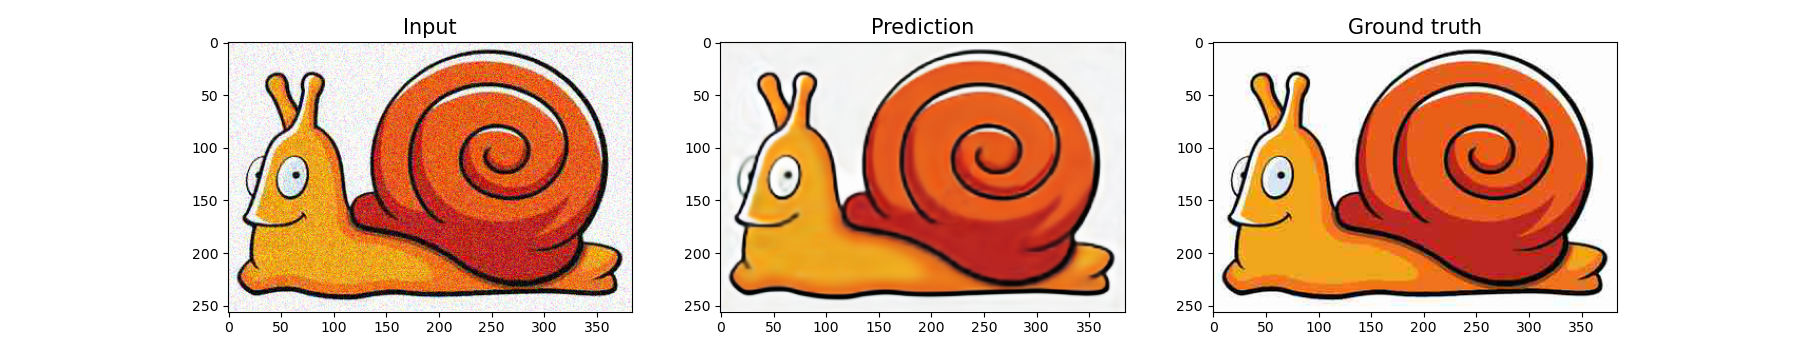
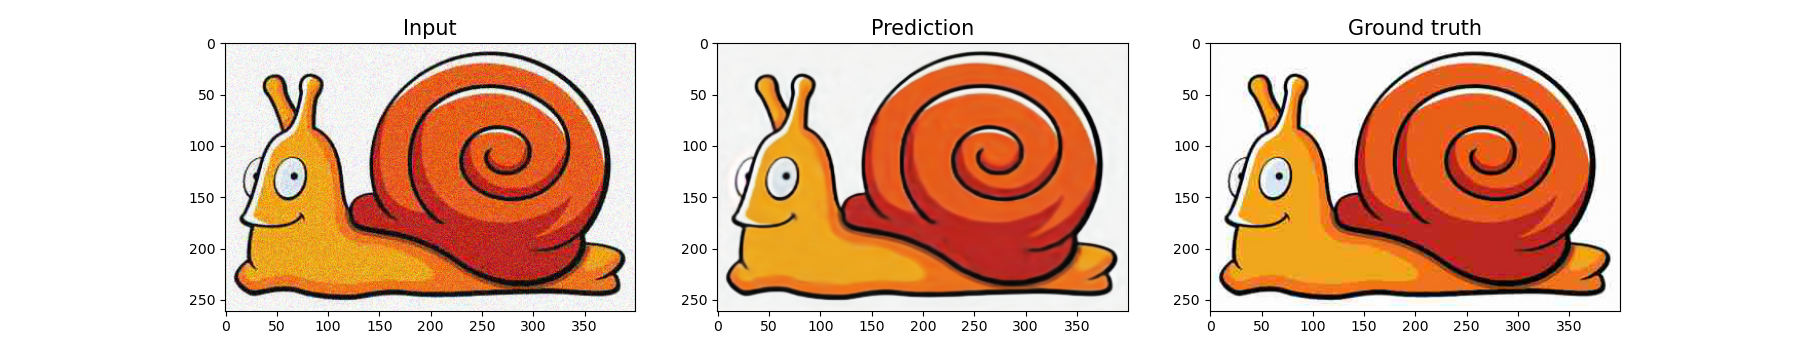
argparse

Changed region(s): [[0.0933, 0.0571, 0.6222, 0.9429], [0.6533, 0.0571, 0.9022, 0.9429], [0.3733, 0.8857, 0.6222, 0.9429]]

diff --git a/main.py b/main.py
@@ -3,6 +3,7 @@ import numpy as np
 from PIL import Image
 from tqdm import tqdm
 import torch.nn as nn
+import argparse
 from torch import optim
 import matplotlib.pyplot as plt
 import skimage.transform as transform
@@ -100,9 +101,14 @@ class Model(nn.Module):
 
 
 if __name__ == "__main__":
+    parser = argparse.ArgumentParser(description='parameters')
+    parser.add_argument('--task', type=str, default='denoise')
+    parser.add_argument('--name', type=str, default='f16')
+    parser.add_argument('--address', type=str, default='./data/denoising/F16_GT.png')
+    args = parser.parse_args()
     model = Model()
     optimizer = optim.Adam(model.parameters(), lr=0.01)
-    image = Image.open('data/denoising/F16_GT.png')
+    image = Image.open(args.address)
     w, h = image.size
     image = image.resize((512, 512), resample=Image.LANCZOS)
     image = torch.from_numpy(np.array(image) / 255.0).unsqueeze(0).float()
@@ -126,6 +132,7 @@ if __name__ == "__main__":
                               preserve_range=True, 
                               anti_aliasing=True)
     plt.imshow(corr_img)
+    plt.imsave(f'./Imgs/{args.name}_input.png', corr_img)
     plt.title('Input', fontsize=15)
     plt.subplot(1, 3, 2)
     pred=transform.resize(img_pred[0].transpose(0, 1).transpose(1, 2).data.numpy(), 
@@ -135,6 +142,7 @@ if __name__ == "__main__":
                             preserve_range=True, 
                             anti_aliasing=True)
     plt.imshow(pred)
+    plt.imsave(f'./Imgs/{args.name}_{args.task}.png', pred)
     plt.title('Prediction', fontsize=15)
     plt.subplot(1, 3, 3)
     origin=transform.resize(image[0].data.numpy(),
@@ -144,5 +152,6 @@ if __name__ == "__main__":
                             preserve_range=True, 
                             anti_aliasing=True)
     plt.imshow(origin)
+    plt.imsave(f'./Imgs/{args.name}_gt.png', origin)
     plt.title('Ground truth', fontsize=15)
-    plt.savefig('Imgs/deep_image_prior.png')
+    plt.savefig(f'Imgs/{args.name}.png')

diff --git a/README.md b/README.md
@@ -1,9 +1,15 @@
 # CV FINAL PROJECT  
 ### Gongle Xue, Yifeng Xu, Yang Li  
 #### Theme:Image Deep Prior
+#### Begin
+```shell
+cd CV-FINAL
+pip install -r requirements.txt
+python main.py --task=denoise --name=snail --address=./data/denoising/snail.jpg 
+```
 
 ### Reference:
 [Deep Image Prior](https://arxiv.org/pdf/1711.10925.pdf)  
 [Code](https://github.com/DmitryUlyanov/deep-image-prior)  
 [Untrained Neural Network Priors for Inverse Imaging Problems: A Survey](https://ieeexplore.ieee.org/stamp/stamp.jsp?tp=&arnumber=9878048)  
-[100-lines-code](https://github.com/MaximeVandegar/Papers-in-100-Lines-of-Code)
+[100-lines-code](https://github.com/MaximeVandegar/Papers-in-100-Lines-of-Code)  
